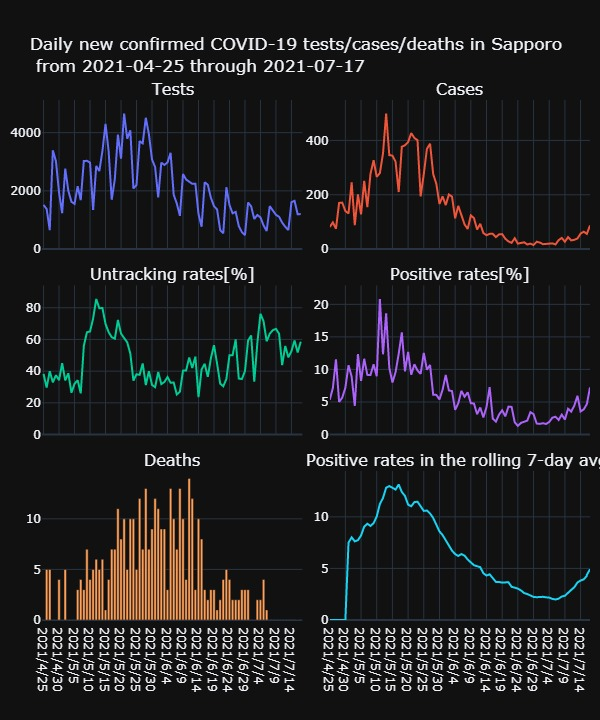
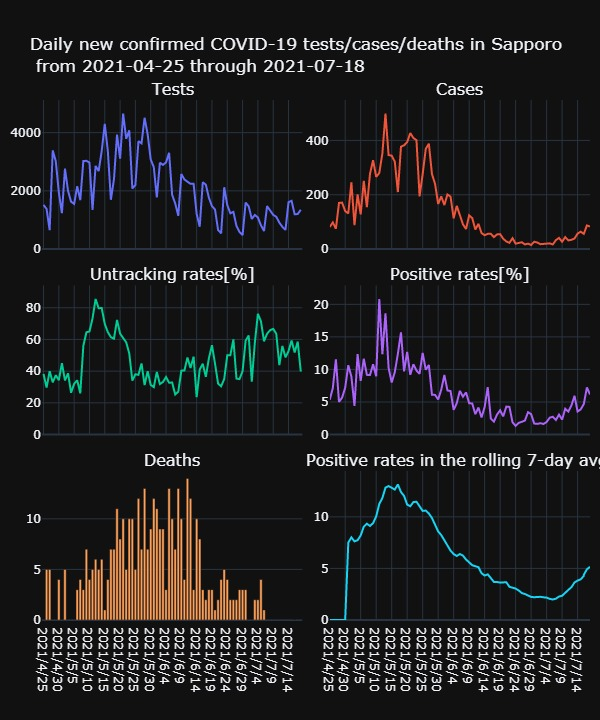
Updated with latest data.

diff --git a/docs/_includes/sapporo.html b/docs/_includes/sapporo.html
@@ -1,1 +1,1 @@
-<div>                            <div id="3568137d-dcb7-4876-867c-903435cc2f19" class="plotly-graph-div" style="height:700px; width:600px;"></div>            <script type="text/javascript">                                    window.PLOTLYENV=window.PLOTLYENV || {};                                    if (document.getElementById("3568137d-dcb7-4876-867c-903435cc2f19")) {                    Plotly.newPlot(                        "3568137d-dcb7-4876-867c-903435cc2f19",                        [{"name": "\u691c\u67fb\u6570", "type": "scatter", "x": ["2021/4/25", "2021/4/26", "2021/4/27", "2021/4/28", "2021/4/29", "2021/4/30", "2021/5/1", "2021/5/2", "2021/5/3", "2021/5/4", "2021/5/5", "2021/5/6", "2021/5/7", "2021/5/8", "2021/5/9", "2021/5/10", "2021/5/11", "2021/5/12", "2021/5/13", "2021/5/14", "2021/5/15", "2021/5/16", "2021/5/17", "2021/5/18", "2021/5/19", "2021/5/20", "2021/5/21", "2021/5/22", "2021/5/23", "2021/5/24", "2021/5/25", "2021/5/26", "2021/5/27", "2021/5/28", "2021/5/29", "2021/5/30", "2021/5/31", "2021/6/1", "2021/6/2", "2021/6/3", "2021/6/4", "2021/6/5", "2021/6/6", "2021/6/7", "2021/6/8", "2021/6/9", "2021/6/10", "2021/6/11", "2021/6/12", "2021/6/13", "2021/6/14", "2021/6/15", "2021/6/16", "2021/6/17", "2021/6/18", "2021/6/19", "2021/6/20", "2021/6/21", "2021/6/22", "2021/6/23", "2021/6/24", "2021/6/25", "2021/6/26", "2021/6/27", "2021/6/28", "2021/6/29", "2021/6/30", "2021/7/1", "2021/7/2", "2021/7/3", "2021/7/4", "2021/7/5", "2021/7/6", "2021/7/7", "2021/7/8", "2021/7/9", "2021/7/10", "2021/7/11", "2021/7/12", "2021/7/13", "2021/7/14", "2021/7/15", "2021/7/16", "2021/7/16", "2021/7/17"], "xaxis": "x", "y": [1517, 1377, 649, 3391, 3018, 1946, 1231, 2764, 2001, 1626, 1553, 2157, 1680, 3028, 3031, 2972, 1345, 2856, 2680, 3372, 4302, 3365, 1694, 2402, 3933, 3105, 4656, 3789, 4080, 2080, 2201, 3708, 3632, 4511, 3943, 3079, 2818, 1773, 2967, 2891, 2978, 3307, 1863, 1567, 1142, 2577, 2391, 2307, 2240, 2244, 1208, 768, 2295, 2212, 1763, 1476, 1360, 653, 542, 2124, 1513, 1229, 1278, 793, 583, 478, 1599, 1467, 1035, 1172, 1086, 813, 621, 1476, 1340, 1175, 1110, 909, 764, 656, 1610, 1658, 1197, 1197, 1202], "yaxis": "y"}, {"name": "\u967d\u6027\u8005", "type": "scatter", "x": ["2021/4/25", "2021/4/26", "2021/4/27", "2021/4/28", "2021/4/29", "2021/4/30", "2021/5/1", "2021/5/2", "2021/5/3", "2021/5/4", "2021/5/5", "2021/5/6", "2021/5/7", "2021/5/8", "2021/5/9", "2021/5/10", "2021/5/11", "2021/5/12", "2021/5/13", "2021/5/14", "2021/5/15", "2021/5/16", "2021/5/17", "2021/5/18", "2021/5/19", "2021/5/20", "2021/5/21", "2021/5/22", "2021/5/23", "2021/5/24", "2021/5/25", "2021/5/26", "2021/5/27", "2021/5/28", "2021/5/29", "2021/5/30", "2021/5/31", "2021/6/1", "2021/6/2", "2021/6/3", "2021/6/4", "2021/6/5", "2021/6/6", "2021/6/7", "2021/6/8", "2021/6/9", "2021/6/10", "2021/6/11", "2021/6/12", "2021/6/13", "2021/6/14", "2021/6/15", "2021/6/16", "2021/6/17", "2021/6/18", "2021/6/19", "2021/6/20", "2021/6/21", "2021/6/22", "2021/6/23", "2021/6/24", "2021/6/25", "2021/6/26", "2021/6/27", "2021/6/28", "2021/6/29", "2021/6/30", "2021/7/1", "2021/7/2", "2021/7/3", "2021/7/4", "2021/7/5", "2021/7/6", "2021/7/7", "2021/7/8", "2021/7/9", "2021/7/10", "2021/7/11", "2021/7/12", "2021/7/13", "2021/7/14", "2021/7/15", "2021/7/16", "2021/7/16", "2021/7/17"], "xaxis": "x2", "y": [81, 98, 75, 170, 171, 140, 131, 246, 88, 201, 128, 251, 154, 277, 327, 266, 280, 352, 499, 346, 344, 322, 210, 377, 382, 394, 427, 409, 401, 194, 276, 369, 388, 276, 240, 166, 194, 162, 201, 193, 113, 159, 125, 91, 74, 124, 114, 72, 93, 59, 51, 56, 56, 44, 54, 55, 38, 28, 23, 40, 20, 22, 25, 17, 20, 15, 27, 24, 18, 19, 21, 21, 17, 33, 41, 27, 44, 32, 34, 39, 57, 64, 56, 56, 87], "yaxis": "y2"}, {"name": "\u7d4c\u8def\u4e0d\u660e\u7387[%]", "type": "scatter", "x": ["2021/4/25", "2021/4/26", "2021/4/27", "2021/4/28", "2021/4/29", "2021/4/30", "2021/5/1", "2021/5/2", "2021/5/3", "2021/5/4", "2021/5/5", "2021/5/6", "2021/5/7", "2021/5/8", "2021/5/9", "2021/5/10", "2021/5/11", "2021/5/12", "2021/5/13", "2021/5/14", "2021/5/15", "2021/5/16", "2021/5/17", "2021/5/18", "2021/5/19", "2021/5/20", "2021/5/21", "2021/5/22", "2021/5/23", "2021/5/24", "2021/5/25", "2021/5/26", "2021/5/27", "2021/5/28", "2021/5/29", "2021/5/30", "2021/5/31", "2021/6/1", "2021/6/2", "2021/6/3", "2021/6/4", "2021/6/5", "2021/6/6", "2021/6/7", "2021/6/8", "2021/6/9", "2021/6/10", "2021/6/11", "2021/6/12", "2021/6/13", "2021/6/14", "2021/6/15", "2021/6/16", "2021/6/17", "2021/6/18", "2021/6/19", "2021/6/20", "2021/6/21", "2021/6/22", "2021/6/23", "2021/6/24", "2021/6/25", "2021/6/26", "2021/6/27", "2021/6/28", "2021/6/29", "2021/6/30", "2021/7/1", "2021/7/2", "2021/7/3", "2021/7/4", "2021/7/5", "2021/7/6", "2021/7/7", "2021/7/8", "2021/7/9", "2021/7/10", "2021/7/11", "2021/7/12", "2021/7/13", "2021/7/14", "2021/7/15", "2021/7/16", "2021/7/16", "2021/7/17"], "xaxis": "x3", "y": [38.2716049382716, 29.591836734693878, 40.0, 32.94117647058823, 37.42690058479532, 34.285714285714285, 45.038167938931295, 34.146341463414636, 38.63636363636363, 26.368159203980102, 32.03125, 34.26294820717131, 25.97402597402597, 55.95667870036101, 64.52599388379205, 65.0375939849624, 73.21428571428571, 85.51136363636364, 79.75951903807615, 79.76878612716763, 69.76744186046511, 64.59627329192547, 61.42857142857143, 60.47745358090185, 72.25130890052355, 63.70558375634518, 60.88992974238876, 58.19070904645477, 51.12219451371571, 34.02061855670103, 38.04347826086957, 37.669376693766935, 44.84536082474227, 31.15942028985507, 40.0, 31.32530120481928, 29.896907216494846, 39.50617283950617, 31.8407960199005, 33.160621761658035, 36.283185840707965, 32.70440251572327, 32.800000000000004, 25.274725274725274, 27.027027027027028, 40.32258064516129, 40.35087719298245, 48.61111111111111, 41.935483870967744, 49.152542372881356, 23.52941176470588, 41.07142857142857, 44.642857142857146, 36.36363636363637, 48.148148148148145, 56.36363636363636, 44.73684210526316, 32.142857142857146, 30.434782608695656, 35.0, 50.0, 50.0, 60.0, 35.294117647058826, 35.0, 40.0, 59.25925925925925, 62.5, 33.33333333333333, 57.89473684210527, 76.19047619047619, 71.42857142857143, 58.82352941176471, 63.63636363636363, 65.85365853658537, 66.66666666666666, 63.63636363636363, 43.75, 55.88235294117647, 48.717948717948715, 52.63157894736842, 59.375, 51.78571428571429, 51.78571428571429, 58.620689655172406], "yaxis": "y3"}, {"name": "\u967d\u6027\u7387[%]", "type": "scatter", "x": ["2021/4/25", "2021/4/26", "2021/4/27", "2021/4/28", "2021/4/29", "2021/4/30", "2021/5/1", "2021/5/2", "2021/5/3", "2021/5/4", "2021/5/5", "2021/5/6", "2021/5/7", "2021/5/8", "2021/5/9", "2021/5/10", "2021/5/11", "2021/5/12", "2021/5/13", "2021/5/14", "2021/5/15", "2021/5/16", "2021/5/17", "2021/5/18", "2021/5/19", "2021/5/20", "2021/5/21", "2021/5/22", "2021/5/23", "2021/5/24", "2021/5/25", "2021/5/26", "2021/5/27", "2021/5/28", "2021/5/29", "2021/5/30", "2021/5/31", "2021/6/1", "2021/6/2", "2021/6/3", "2021/6/4", "2021/6/5", "2021/6/6", "2021/6/7", "2021/6/8", "2021/6/9", "2021/6/10", "2021/6/11", "2021/6/12", "2021/6/13", "2021/6/14", "2021/6/15", "2021/6/16", "2021/6/17", "2021/6/18", "2021/6/19", "2021/6/20", "2021/6/21", "2021/6/22", "2021/6/23", "2021/6/24", "2021/6/25", "2021/6/26", "2021/6/27", "2021/6/28", "2021/6/29", "2021/6/30", "2021/7/1", "2021/7/2", "2021/7/3", "2021/7/4", "2021/7/5", "2021/7/6", "2021/7/7", "2021/7/8", "2021/7/9", "2021/7/10", "2021/7/11", "2021/7/12", "2021/7/13", "2021/7/14", "2021/7/15", "2021/7/16", "2021/7/16", "2021/7/17"], "xaxis": "x4", "y": [5.339485827290705, 7.116920842411038, 11.556240369799692, 5.013270421704512, 5.666003976143141, 7.194244604316546, 10.641754670999187, 8.90014471780029, 4.397801099450275, 12.361623616236162, 8.24211204121056, 11.636532220676866, 9.166666666666666, 9.147952443857331, 10.788518640712635, 8.950201884253028, 20.817843866171003, 12.324929971988796, 18.619402985074625, 10.26097271648873, 7.996280799628081, 9.569093610698365, 12.396694214876034, 15.695253955037469, 9.712687515891178, 12.689210950080515, 9.170962199312713, 10.794404856162576, 9.82843137254902, 9.326923076923077, 12.539754656974104, 9.951456310679612, 10.682819383259911, 6.1183772999334956, 6.086735987826528, 5.391360831438779, 6.88431511710433, 9.137055837563452, 6.774519716885743, 6.675890695261155, 3.794492948287441, 4.807983066223163, 6.709608158883522, 5.8072750478621575, 6.47985989492119, 4.811796662786186, 4.767879548306149, 3.1209362808842656, 4.151785714285714, 2.6292335115864525, 4.2218543046357615, 7.291666666666667, 2.440087145969499, 1.9891500904159132, 3.0629608621667614, 3.7262872628726287, 2.794117647058824, 4.287901990811639, 4.243542435424354, 1.8832391713747645, 1.3218770654329148, 1.790073230268511, 1.9561815336463224, 2.1437578814627996, 3.430531732418525, 3.1380753138075312, 1.6885553470919326, 1.6359918200409, 1.7391304347826086, 1.621160409556314, 1.9337016574585635, 2.5830258302583027, 2.737520128824477, 2.2357723577235773, 3.0597014925373136, 2.297872340425532, 3.963963963963964, 3.52035203520352, 4.450261780104712, 5.945121951219512, 3.540372670807453, 3.8600723763570564, 4.678362573099415, 4.678362573099415, 7.23793677204659], "yaxis": "y4"}, {"name": "\u6b7b\u8005\u6570", "type": "bar", "x": ["2021/4/25", "2021/4/26", "2021/4/27", "2021/4/28", "2021/4/29", "2021/4/30", "2021/5/1", "2021/5/2", "2021/5/3", "2021/5/4", "2021/5/5", "2021/5/6", "2021/5/7", "2021/5/8", "2021/5/9", "2021/5/10", "2021/5/11", "2021/5/12", "2021/5/13", "2021/5/14", "2021/5/15", "2021/5/16", "2021/5/17", "2021/5/18", "2021/5/19", "2021/5/20", "2021/5/21", "2021/5/22", "2021/5/23", "2021/5/24", "2021/5/25", "2021/5/26", "2021/5/27", "2021/5/28", "2021/5/29", "2021/5/30", "2021/5/31", "2021/6/1", "2021/6/2", "2021/6/3", "2021/6/4", "2021/6/5", "2021/6/6", "2021/6/7", "2021/6/8", "2021/6/9", "2021/6/10", "2021/6/11", "2021/6/12", "2021/6/13", "2021/6/14", "2021/6/15", "2021/6/16", "2021/6/17", "2021/6/18", "2021/6/19", "2021/6/20", "2021/6/21", "2021/6/22", "2021/6/23", "2021/6/24", "2021/6/25", "2021/6/26", "2021/6/27", "2021/6/28", "2021/6/29", "2021/6/30", "2021/7/1", "2021/7/2", "2021/7/3", "2021/7/4", "2021/7/5", "2021/7/6", "2021/7/7", "2021/7/8", "2021/7/9", "2021/7/10", "2021/7/11", "2021/7/12", "2021/7/13", "2021/7/14", "2021/7/15", "2021/7/16", "2021/7/16", "2021/7/17"], "xaxis": "x5", "y": [0, 5, 5, 0, 0, 4, 0, 5, 0, 0, 0, 3, 4, 3, 7, 4, 5, 6, 5, 6, 1, 4, 7, 7, 11, 8, 10, 5, 10, 10, 5, 12, 7, 13, 7, 9, 12, 11, 9, 9, 3, 13, 10, 7, 13, 10, 4, 14, 12, 3, 10, 8, 3, 2, 3, 3, 1, 2, 4, 5, 4, 2, 2, 2, 3, 3, 3, 0, 0, 2, 2, 4, 1, 0, 0, 0, 0, 0, 0, 0, 0, 0, 0, 0, 0], "yaxis": "y5"}, {"name": "\u967d\u6027\u7387\u79fb\u52d5\u5e73\u5747[%]", "type": "scatter", "x": ["2021/4/25", "2021/4/26", "2021/4/27", "2021/4/28", "2021/4/29", "2021/4/30", "2021/5/1", "2021/5/2", "2021/5/3", "2021/5/4", "2021/5/5", "2021/5/6", "2021/5/7", "2021/5/8", "2021/5/9", "2021/5/10", "2021/5/11", "2021/5/12", "2021/5/13", "2021/5/14", "2021/5/15", "2021/5/16", "2021/5/17", "2021/5/18", "2021/5/19", "2021/5/20", "2021/5/21", "2021/5/22", "2021/5/23", "2021/5/24", "2021/5/25", "2021/5/26", "2021/5/27", "2021/5/28", "2021/5/29", "2021/5/30", "2021/5/31", "2021/6/1", "2021/6/2", "2021/6/3", "2021/6/4", "2021/6/5", "2021/6/6", "2021/6/7", "2021/6/8", "2021/6/9", "2021/6/10", "2021/6/11", "2021/6/12", "2021/6/13", "2021/6/14", "2021/6/15", "2021/6/16", "2021/6/17", "2021/6/18", "2021/6/19", "2021/6/20", "2021/6/21", "2021/6/22", "2021/6/23", "2021/6/24", "2021/6/25", "2021/6/26", "2021/6/27", "2021/6/28", "2021/6/29", "2021/6/30", "2021/7/1", "2021/7/2", "2021/7/3", "2021/7/4", "2021/7/5", "2021/7/6", "2021/7/7", "2021/7/8", "2021/7/9", "2021/7/10", "2021/7/11", "2021/7/12", "2021/7/13", "2021/7/14", "2021/7/15", "2021/7/16", "2021/7/16", "2021/7/17"], "xaxis": "x6", "y": [0.0, 0.0, 0.0, 0.0, 0.0, 0.0, 7.503988673237832, 8.012654229024914, 7.624208551459091, 7.739263300950015, 8.20052638945088, 9.053458995812841, 9.335233576148571, 9.12183325798545, 9.391600961258641, 10.041943930516178, 11.249975394792585, 11.833235099189475, 12.830788065532012, 12.987117501220878, 12.8225929806167, 12.648389404900376, 13.140745452132233, 12.408946893398872, 12.035769399670638, 11.188599108957195, 11.032883320789193, 11.432615328865548, 11.469663580558498, 11.03112484656522, 10.580339232556168, 10.614449060383087, 10.32782169369443, 9.891738136640255, 9.219214012592248, 8.585346792433644, 8.236402798173822, 7.750302966829444, 7.296454882001749, 6.724036498001926, 6.392053019195346, 6.209374030394867, 6.397695077172687, 6.24383221013809, 5.864232789760624, 5.583843782032115, 5.311270761038544, 5.215048379980947, 5.12130590113274, 4.53839523723316, 4.311906559629389, 4.4278789555930285, 4.0890633103335015, 3.6921019592063242, 3.683819756532395, 3.6230342634733828, 3.646589139969436, 3.6560245237088473, 3.220578204959945, 3.141028494303555, 3.045703776448841, 2.863862686177662, 2.6109904391453327, 2.5180819012030433, 2.395600435718313, 2.237676561201624, 2.2098645863040765, 2.254738122676646, 2.247460580464374, 2.1996004198800874, 2.169592387879482, 2.0485201161423072, 1.991297946859014, 2.0694718055206773, 2.2728589015915936, 2.352679173826297, 2.687365395884533, 2.9140297355623836, 3.1807777283975844, 3.639006560168304, 3.825378033466001, 3.9397167311545354, 4.279786764393661, 4.381843708555869, 4.912927242390593], "yaxis": "y6"}],                        {"annotations": [{"font": {"size": 16}, "showarrow": false, "text": "\u691c\u67fb\u6570", "x": 0.2375, "xanchor": "center", "xref": "paper", "y": 1.0, "yanchor": "bottom", "yref": "paper"}, {"font": {"size": 16}, "showarrow": false, "text": "\u967d\u6027\u8005", "x": 0.7625, "xanchor": "center", "xref": "paper", "y": 1.0, "yanchor": "bottom", "yref": "paper"}, {"font": {"size": 16}, "showarrow": false, "text": "\u7d4c\u8def\u4e0d\u660e\u7387[%]", "x": 0.2375, "xanchor": "center", "xref": "paper", "y": 0.6433333333333333, "yanchor": "bottom", "yref": "paper"}, {"font": {"size": 16}, "showarrow": false, "text": "\u967d\u6027\u7387[%]", "x": 0.7625, "xanchor": "center", "xref": "paper", "y": 0.6433333333333333, "yanchor": "bottom", "yref": "paper"}, {"font": {"size": 16}, "showarrow": false, "text": "\u6b7b\u8005\u6570", "x": 0.2375, "xanchor": "center", "xref": "paper", "y": 0.2866666666666667, "yanchor": "bottom", "yref": "paper"}, {"font": {"size": 16}, "showarrow": false, "text": "\u967d\u6027\u7387\u79fb\u52d5\u5e73\u5747[%]", "x": 0.7625, "xanchor": "center", "xref": "paper", "y": 0.2866666666666667, "yanchor": "bottom", "yref": "paper"}], "height": 700, "margin": {"b": 100, "l": 10, "r": 10, "t": 80}, "showlegend": false, "template": {"data": {"bar": [{"error_x": {"color": "#f2f5fa"}, "error_y": {"color": "#f2f5fa"}, "marker": {"line": {"color": "rgb(17,17,17)", "width": 0.5}}, "type": "bar"}], "barpolar": [{"marker": {"line": {"color": "rgb(17,17,17)", "width": 0.5}}, "type": "barpolar"}], "carpet": [{"aaxis": {"endlinecolor": "#A2B1C6", "gridcolor": "#506784", "linecolor": "#506784", "minorgridcolor": "#506784", "startlinecolor": "#A2B1C6"}, "baxis": {"endlinecolor": "#A2B1C6", "gridcolor": "#506784", "linecolor": "#506784", "minorgridcolor": "#506784", "startlinecolor": "#A2B1C6"}, "type": "carpet"}], "choropleth": [{"colorbar": {"outlinewidth": 0, "ticks": ""}, "type": "choropleth"}], "contour": [{"colorbar": {"outlinewidth": 0, "ticks": ""}, "colorscale": [[0.0, "#0d0887"], [0.1111111111111111, "#46039f"], [0.2222222222222222, "#7201a8"], [0.3333333333333333, "#9c179e"], [0.4444444444444444, "#bd3786"], [0.5555555555555556, "#d8576b"], [0.6666666666666666, "#ed7953"], [0.7777777777777778, "#fb9f3a"], [0.8888888888888888, "#fdca26"], [1.0, "#f0f921"]], "type": "contour"}], "contourcarpet": [{"colorbar": {"outlinewidth": 0, "ticks": ""}, "type": "contourcarpet"}], "heatmap": [{"colorbar": {"outlinewidth": 0, "ticks": ""}, "colorscale": [[0.0, "#0d0887"], [0.1111111111111111, "#46039f"], [0.2222222222222222, "#7201a8"], [0.3333333333333333, "#9c179e"], [0.4444444444444444, "#bd3786"], [0.5555555555555556, "#d8576b"], [0.6666666666666666, "#ed7953"], [0.7777777777777778, "#fb9f3a"], [0.8888888888888888, "#fdca26"], [1.0, "#f0f921"]], "type": "heatmap"}], "heatmapgl": [{"colorbar": {"outlinewidth": 0, "ticks": ""}, "colorscale": [[0.0, "#0d0887"], [0.1111111111111111, "#46039f"], [0.2222222222222222, "#7201a8"], [0.3333333333333333, "#9c179e"], [0.4444444444444444, "#bd3786"], [0.5555555555555556, "#d8576b"], [0.6666666666666666, "#ed7953"], [0.7777777777777778, "#fb9f3a"], [0.8888888888888888, "#fdca26"], [1.0, "#f0f921"]], "type": "heatmapgl"}], "histogram": [{"marker": {"colorbar": {"outlinewidth": 0, "ticks": ""}}, "type": "histogram"}], "histogram2d": [{"colorbar": {"outlinewidth": 0, "ticks": ""}, "colorscale": [[0.0, "#0d0887"], [0.1111111111111111, "#46039f"], [0.2222222222222222, "#7201a8"], [0.3333333333333333, "#9c179e"], [0.4444444444444444, "#bd3786"], [0.5555555555555556, "#d8576b"], [0.6666666666666666, "#ed7953"], [0.7777777777777778, "#fb9f3a"], [0.8888888888888888, "#fdca26"], [1.0, "#f0f921"]], "type": "histogram2d"}], "histogram2dcontour": [{"colorbar": {"outlinewidth": 0, "ticks": ""}, "colorscale": [[0.0, "#0d0887"], [0.1111111111111111, "#46039f"], [0.2222222222222222, "#7201a8"], [0.3333333333333333, "#9c179e"], [0.4444444444444444, "#bd3786"], [0.5555555555555556, "#d8576b"], [0.6666666666666666, "#ed7953"], [0.7777777777777778, "#fb9f3a"], [0.8888888888888888, "#fdca26"], [1.0, "#f0f921"]], "type": "histogram2dcontour"}], "mesh3d": [{"colorbar": {"outlinewidth": 0, "ticks": ""}, "type": "mesh3d"}], "parcoords": [{"line": {"colorbar": {"outlinewidth": 0, "ticks": ""}}, "type": "parcoords"}], "pie": [{"automargin": true, "type": "pie"}], "scatter": [{"marker": {"line": {"color": "#283442"}}, "type": "scatter"}], "scatter3d": [{"line": {"colorbar": {"outlinewidth": 0, "ticks": ""}}, "marker": {"colorbar": {"outlinewidth": 0, "ticks": ""}}, "type": "scatter3d"}], "scattercarpet": [{"marker": {"colorbar": {"outlinewidth": 0, "ticks": ""}}, "type": "scattercarpet"}], "scattergeo": [{"marker": {"colorbar": {"outlinewidth": 0, "ticks": ""}}, "type": "scattergeo"}], "scattergl": [{"marker": {"line": {"color": "#283442"}}, "type": "scattergl"}], "scattermapbox": [{"marker": {"colorbar": {"outlinewidth": 0, "ticks": ""}}, "type": "scattermapbox"}], "scatterpolar": [{"marker": {"colorbar": {"outlinewidth": 0, "ticks": ""}}, "type": "scatterpolar"}], "scatterpolargl": [{"marker": {"colorbar": {"outlinewidth": 0, "ticks": ""}}, "type": "scatterpolargl"}], "scatterternary": [{"marker": {"colorbar": {"outlinewidth": 0, "ticks": ""}}, "type": "scatterternary"}], "surface": [{"colorbar": {"outlinewidth": 0, "ticks": ""}, "colorscale": [[0.0, "#0d0887"], [0.1111111111111111, "#46039f"], [0.2222222222222222, "#7201a8"], [0.3333333333333333, "#9c179e"], [0.4444444444444444, "#bd3786"], [0.5555555555555556, "#d8576b"], [0.6666666666666666, "#ed7953"], [0.7777777777777778, "#fb9f3a"], [0.8888888888888888, "#fdca26"], [1.0, "#f0f921"]], "type": "surface"}], "table": [{"cells": {"fill": {"color": "#506784"}, "line": {"color": "rgb(17,17,17)"}}, "header": {"fill": {"color": "#2a3f5f"}, "line": {"color": "rgb(17,17,17)"}}, "type": "table"}]}, "layout": {"annotationdefaults": {"arrowcolor": "#f2f5fa", "arrowhead": 0, "arrowwidth": 1}, "autotypenumbers": "strict", "coloraxis": {"colorbar": {"outlinewidth": 0, "ticks": ""}}, "colorscale": {"diverging": [[0, "#8e0152"], [0.1, "#c51b7d"], [0.2, "#de77ae"], [0.3, "#f1b6da"], [0.4, "#fde0ef"], [0.5, "#f7f7f7"], [0.6, "#e6f5d0"], [0.7, "#b8e186"], [0.8, "#7fbc41"], [0.9, "#4d9221"], [1, "#276419"]], "sequential": [[0.0, "#0d0887"], [0.1111111111111111, "#46039f"], [0.2222222222222222, "#7201a8"], [0.3333333333333333, "#9c179e"], [0.4444444444444444, "#bd3786"], [0.5555555555555556, "#d8576b"], [0.6666666666666666, "#ed7953"], [0.7777777777777778, "#fb9f3a"], [0.8888888888888888, "#fdca26"], [1.0, "#f0f921"]], "sequentialminus": [[0.0, "#0d0887"], [0.1111111111111111, "#46039f"], [0.2222222222222222, "#7201a8"], [0.3333333333333333, "#9c179e"], [0.4444444444444444, "#bd3786"], [0.5555555555555556, "#d8576b"], [0.6666666666666666, "#ed7953"], [0.7777777777777778, "#fb9f3a"], [0.8888888888888888, "#fdca26"], [1.0, "#f0f921"]]}, "colorway": ["#636efa", "#EF553B", "#00cc96", "#ab63fa", "#FFA15A", "#19d3f3", "#FF6692", "#B6E880", "#FF97FF", "#FECB52"], "font": {"color": "#f2f5fa"}, "geo": {"bgcolor": "rgb(17,17,17)", "lakecolor": "rgb(17,17,17)", "landcolor": "rgb(17,17,17)", "showlakes": true, "showland": true, "subunitcolor": "#506784"}, "hoverlabel": {"align": "left"}, "hovermode": "closest", "mapbox": {"style": "dark"}, "paper_bgcolor": "rgb(17,17,17)", "plot_bgcolor": "rgb(17,17,17)", "polar": {"angularaxis": {"gridcolor": "#506784", "linecolor": "#506784", "ticks": ""}, "bgcolor": "rgb(17,17,17)", "radialaxis": {"gridcolor": "#506784", "linecolor": "#506784", "ticks": ""}}, "scene": {"xaxis": {"backgroundcolor": "rgb(17,17,17)", "gridcolor": "#506784", "gridwidth": 2, "linecolor": "#506784", "showbackground": true, "ticks": "", "zerolinecolor": "#C8D4E3"}, "yaxis": {"backgroundcolor": "rgb(17,17,17)", "gridcolor": "#506784", "gridwidth": 2, "linecolor": "#506784", "showbackground": true, "ticks": "", "zerolinecolor": "#C8D4E3"}, "zaxis": {"backgroundcolor": "rgb(17,17,17)", "gridcolor": "#506784", "gridwidth": 2, "linecolor": "#506784", "showbackground": true, "ticks": "", "zerolinecolor": "#C8D4E3"}}, "shapedefaults": {"line": {"color": "#f2f5fa"}}, "sliderdefaults": {"bgcolor": "#C8D4E3", "bordercolor": "rgb(17,17,17)", "borderwidth": 1, "tickwidth": 0}, "ternary": {"aaxis": {"gridcolor": "#506784", "linecolor": "#506784", "ticks": ""}, "baxis": {"gridcolor": "#506784", "linecolor": "#506784", "ticks": ""}, "bgcolor": "rgb(17,17,17)", "caxis": {"gridcolor": "#506784", "linecolor": "#506784", "ticks": ""}}, "title": {"x": 0.05}, "updatemenudefaults": {"bgcolor": "#506784", "borderwidth": 0}, "xaxis": {"automargin": true, "gridcolor": "#283442", "linecolor": "#506784", "ticks": "", "title": {"standoff": 15}, "zerolinecolor": "#283442", "zerolinewidth": 2}, "yaxis": {"automargin": true, "gridcolor": "#283442", "linecolor": "#506784", "ticks": "", "title": {"standoff": 15}, "zerolinecolor": "#283442", "zerolinewidth": 2}}}, "title": {"text": "\u672d\u5e4c\u611f\u67d3\u72b6\u6cc1 2021-04-25 \uff5e 2021-07-17 23:13"}, "width": 600, "xaxis": {"anchor": "y", "domain": [0.0, 0.475], "matches": "x5", "showticklabels": false}, "xaxis2": {"anchor": "y2", "domain": [0.525, 1.0], "matches": "x6", "showticklabels": false}, "xaxis3": {"anchor": "y3", "domain": [0.0, 0.475], "matches": "x5", "showticklabels": false}, "xaxis4": {"anchor": "y4", "domain": [0.525, 1.0], "matches": "x6", "showticklabels": false}, "xaxis5": {"anchor": "y5", "domain": [0.0, 0.475]}, "xaxis6": {"anchor": "y6", "domain": [0.525, 1.0]}, "yaxis": {"anchor": "x", "domain": [0.7133333333333334, 1.0], "range": [0, 5121.6]}, "yaxis2": {"anchor": "x2", "domain": [0.7133333333333334, 1.0], "range": [0, 548.9000000000001]}, "yaxis3": {"anchor": "x3", "domain": [0.3566666666666667, 0.6433333333333333], "range": [0, 94.06250000000001]}, "yaxis4": {"anchor": "x4", "domain": [0.3566666666666667, 0.6433333333333333], "range": [0, 22.899628252788105]}, "yaxis5": {"anchor": "x5", "domain": [0.0, 0.2866666666666667]}, "yaxis6": {"anchor": "x6", "domain": [0.0, 0.2866666666666667], "range": [0, 14.454819997345457]}},                        {"responsive": true}                    )                };                            </script>        </div>
+<div>                            <div id="8878cf2e-042f-41bd-a453-0bb9c112a18b" class="plotly-graph-div" style="height:700px; width:600px;"></div>            <script type="text/javascript">                                    window.PLOTLYENV=window.PLOTLYENV || {};                                    if (document.getElementById("8878cf2e-042f-41bd-a453-0bb9c112a18b")) {                    Plotly.newPlot(                        "8878cf2e-042f-41bd-a453-0bb9c112a18b",                        [{"name": "\u691c\u67fb\u6570", "type": "scatter", "x": ["2021/4/25", "2021/4/26", "2021/4/27", "2021/4/28", "2021/4/29", "2021/4/30", "2021/5/1", "2021/5/2", "2021/5/3", "2021/5/4", "2021/5/5", "2021/5/6", "2021/5/7", "2021/5/8", "2021/5/9", "2021/5/10", "2021/5/11", "2021/5/12", "2021/5/13", "2021/5/14", "2021/5/15", "2021/5/16", "2021/5/17", "2021/5/18", "2021/5/19", "2021/5/20", "2021/5/21", "2021/5/22", "2021/5/23", "2021/5/24", "2021/5/25", "2021/5/26", "2021/5/27", "2021/5/28", "2021/5/29", "2021/5/30", "2021/5/31", "2021/6/1", "2021/6/2", "2021/6/3", "2021/6/4", "2021/6/5", "2021/6/6", "2021/6/7", "2021/6/8", "2021/6/9", "2021/6/10", "2021/6/11", "2021/6/12", "2021/6/13", "2021/6/14", "2021/6/15", "2021/6/16", "2021/6/17", "2021/6/18", "2021/6/19", "2021/6/20", "2021/6/21", "2021/6/22", "2021/6/23", "2021/6/24", "2021/6/25", "2021/6/26", "2021/6/27", "2021/6/28", "2021/6/29", "2021/6/30", "2021/7/1", "2021/7/2", "2021/7/3", "2021/7/4", "2021/7/5", "2021/7/6", "2021/7/7", "2021/7/8", "2021/7/9", "2021/7/10", "2021/7/11", "2021/7/12", "2021/7/13", "2021/7/14", "2021/7/15", "2021/7/16", "2021/7/16", "2021/7/17", "2021/7/18"], "xaxis": "x", "y": [1517, 1377, 649, 3391, 3018, 1946, 1231, 2764, 2001, 1626, 1553, 2157, 1680, 3028, 3031, 2972, 1345, 2856, 2680, 3372, 4302, 3365, 1694, 2402, 3933, 3105, 4656, 3789, 4080, 2080, 2201, 3708, 3632, 4511, 3943, 3079, 2818, 1773, 2967, 2891, 2978, 3307, 1863, 1567, 1142, 2577, 2391, 2307, 2240, 2244, 1208, 768, 2295, 2212, 1763, 1476, 1360, 653, 542, 2124, 1513, 1229, 1278, 793, 583, 478, 1599, 1467, 1035, 1172, 1086, 813, 621, 1476, 1340, 1175, 1110, 909, 764, 656, 1610, 1658, 1197, 1197, 1202, 1350], "yaxis": "y"}, {"name": "\u967d\u6027\u8005", "type": "scatter", "x": ["2021/4/25", "2021/4/26", "2021/4/27", "2021/4/28", "2021/4/29", "2021/4/30", "2021/5/1", "2021/5/2", "2021/5/3", "2021/5/4", "2021/5/5", "2021/5/6", "2021/5/7", "2021/5/8", "2021/5/9", "2021/5/10", "2021/5/11", "2021/5/12", "2021/5/13", "2021/5/14", "2021/5/15", "2021/5/16", "2021/5/17", "2021/5/18", "2021/5/19", "2021/5/20", "2021/5/21", "2021/5/22", "2021/5/23", "2021/5/24", "2021/5/25", "2021/5/26", "2021/5/27", "2021/5/28", "2021/5/29", "2021/5/30", "2021/5/31", "2021/6/1", "2021/6/2", "2021/6/3", "2021/6/4", "2021/6/5", "2021/6/6", "2021/6/7", "2021/6/8", "2021/6/9", "2021/6/10", "2021/6/11", "2021/6/12", "2021/6/13", "2021/6/14", "2021/6/15", "2021/6/16", "2021/6/17", "2021/6/18", "2021/6/19", "2021/6/20", "2021/6/21", "2021/6/22", "2021/6/23", "2021/6/24", "2021/6/25", "2021/6/26", "2021/6/27", "2021/6/28", "2021/6/29", "2021/6/30", "2021/7/1", "2021/7/2", "2021/7/3", "2021/7/4", "2021/7/5", "2021/7/6", "2021/7/7", "2021/7/8", "2021/7/9", "2021/7/10", "2021/7/11", "2021/7/12", "2021/7/13", "2021/7/14", "2021/7/15", "2021/7/16", "2021/7/16", "2021/7/17", "2021/7/18"], "xaxis": "x2", "y": [81, 98, 75, 170, 171, 140, 131, 246, 88, 201, 128, 251, 154, 277, 327, 266, 280, 352, 499, 346, 344, 322, 210, 377, 382, 394, 427, 409, 401, 194, 276, 369, 388, 276, 240, 166, 194, 162, 201, 193, 113, 159, 125, 91, 74, 124, 114, 72, 93, 59, 51, 56, 56, 44, 54, 55, 38, 28, 23, 40, 20, 22, 25, 17, 20, 15, 27, 24, 18, 19, 21, 21, 17, 33, 41, 27, 44, 32, 34, 39, 57, 64, 56, 56, 87, 83], "yaxis": "y2"}, {"name": "\u7d4c\u8def\u4e0d\u660e\u7387[%]", "type": "scatter", "x": ["2021/4/25", "2021/4/26", "2021/4/27", "2021/4/28", "2021/4/29", "2021/4/30", "2021/5/1", "2021/5/2", "2021/5/3", "2021/5/4", "2021/5/5", "2021/5/6", "2021/5/7", "2021/5/8", "2021/5/9", "2021/5/10", "2021/5/11", "2021/5/12", "2021/5/13", "2021/5/14", "2021/5/15", "2021/5/16", "2021/5/17", "2021/5/18", "2021/5/19", "2021/5/20", "2021/5/21", "2021/5/22", "2021/5/23", "2021/5/24", "2021/5/25", "2021/5/26", "2021/5/27", "2021/5/28", "2021/5/29", "2021/5/30", "2021/5/31", "2021/6/1", "2021/6/2", "2021/6/3", "2021/6/4", "2021/6/5", "2021/6/6", "2021/6/7", "2021/6/8", "2021/6/9", "2021/6/10", "2021/6/11", "2021/6/12", "2021/6/13", "2021/6/14", "2021/6/15", "2021/6/16", "2021/6/17", "2021/6/18", "2021/6/19", "2021/6/20", "2021/6/21", "2021/6/22", "2021/6/23", "2021/6/24", "2021/6/25", "2021/6/26", "2021/6/27", "2021/6/28", "2021/6/29", "2021/6/30", "2021/7/1", "2021/7/2", "2021/7/3", "2021/7/4", "2021/7/5", "2021/7/6", "2021/7/7", "2021/7/8", "2021/7/9", "2021/7/10", "2021/7/11", "2021/7/12", "2021/7/13", "2021/7/14", "2021/7/15", "2021/7/16", "2021/7/16", "2021/7/17", "2021/7/18"], "xaxis": "x3", "y": [38.2716049382716, 29.591836734693878, 40.0, 32.94117647058823, 37.42690058479532, 34.285714285714285, 45.038167938931295, 34.146341463414636, 38.63636363636363, 26.368159203980102, 32.03125, 34.26294820717131, 25.97402597402597, 55.95667870036101, 64.52599388379205, 65.0375939849624, 73.21428571428571, 85.51136363636364, 79.75951903807615, 79.76878612716763, 69.76744186046511, 64.59627329192547, 61.42857142857143, 60.47745358090185, 72.25130890052355, 63.70558375634518, 60.88992974238876, 58.19070904645477, 51.12219451371571, 34.02061855670103, 38.04347826086957, 37.669376693766935, 44.84536082474227, 31.15942028985507, 40.0, 31.32530120481928, 29.896907216494846, 39.50617283950617, 31.8407960199005, 33.160621761658035, 36.283185840707965, 32.70440251572327, 32.800000000000004, 25.274725274725274, 27.027027027027028, 40.32258064516129, 40.35087719298245, 48.61111111111111, 41.935483870967744, 49.152542372881356, 23.52941176470588, 41.07142857142857, 44.642857142857146, 36.36363636363637, 48.148148148148145, 56.36363636363636, 44.73684210526316, 32.142857142857146, 30.434782608695656, 35.0, 50.0, 50.0, 60.0, 35.294117647058826, 35.0, 40.0, 59.25925925925925, 62.5, 33.33333333333333, 57.89473684210527, 76.19047619047619, 71.42857142857143, 58.82352941176471, 63.63636363636363, 65.85365853658537, 66.66666666666666, 63.63636363636363, 43.75, 55.88235294117647, 48.717948717948715, 52.63157894736842, 59.375, 51.78571428571429, 51.78571428571429, 58.620689655172406, 39.75903614457831], "yaxis": "y3"}, {"name": "\u967d\u6027\u7387[%]", "type": "scatter", "x": ["2021/4/25", "2021/4/26", "2021/4/27", "2021/4/28", "2021/4/29", "2021/4/30", "2021/5/1", "2021/5/2", "2021/5/3", "2021/5/4", "2021/5/5", "2021/5/6", "2021/5/7", "2021/5/8", "2021/5/9", "2021/5/10", "2021/5/11", "2021/5/12", "2021/5/13", "2021/5/14", "2021/5/15", "2021/5/16", "2021/5/17", "2021/5/18", "2021/5/19", "2021/5/20", "2021/5/21", "2021/5/22", "2021/5/23", "2021/5/24", "2021/5/25", "2021/5/26", "2021/5/27", "2021/5/28", "2021/5/29", "2021/5/30", "2021/5/31", "2021/6/1", "2021/6/2", "2021/6/3", "2021/6/4", "2021/6/5", "2021/6/6", "2021/6/7", "2021/6/8", "2021/6/9", "2021/6/10", "2021/6/11", "2021/6/12", "2021/6/13", "2021/6/14", "2021/6/15", "2021/6/16", "2021/6/17", "2021/6/18", "2021/6/19", "2021/6/20", "2021/6/21", "2021/6/22", "2021/6/23", "2021/6/24", "2021/6/25", "2021/6/26", "2021/6/27", "2021/6/28", "2021/6/29", "2021/6/30", "2021/7/1", "2021/7/2", "2021/7/3", "2021/7/4", "2021/7/5", "2021/7/6", "2021/7/7", "2021/7/8", "2021/7/9", "2021/7/10", "2021/7/11", "2021/7/12", "2021/7/13", "2021/7/14", "2021/7/15", "2021/7/16", "2021/7/16", "2021/7/17", "2021/7/18"], "xaxis": "x4", "y": [5.339485827290705, 7.116920842411038, 11.556240369799692, 5.013270421704512, 5.666003976143141, 7.194244604316546, 10.641754670999187, 8.90014471780029, 4.397801099450275, 12.361623616236162, 8.24211204121056, 11.636532220676866, 9.166666666666666, 9.147952443857331, 10.788518640712635, 8.950201884253028, 20.817843866171003, 12.324929971988796, 18.619402985074625, 10.26097271648873, 7.996280799628081, 9.569093610698365, 12.396694214876034, 15.695253955037469, 9.712687515891178, 12.689210950080515, 9.170962199312713, 10.794404856162576, 9.82843137254902, 9.326923076923077, 12.539754656974104, 9.951456310679612, 10.682819383259911, 6.1183772999334956, 6.086735987826528, 5.391360831438779, 6.88431511710433, 9.137055837563452, 6.774519716885743, 6.675890695261155, 3.794492948287441, 4.807983066223163, 6.709608158883522, 5.8072750478621575, 6.47985989492119, 4.811796662786186, 4.767879548306149, 3.1209362808842656, 4.151785714285714, 2.6292335115864525, 4.2218543046357615, 7.291666666666667, 2.440087145969499, 1.9891500904159132, 3.0629608621667614, 3.7262872628726287, 2.794117647058824, 4.287901990811639, 4.243542435424354, 1.8832391713747645, 1.3218770654329148, 1.790073230268511, 1.9561815336463224, 2.1437578814627996, 3.430531732418525, 3.1380753138075312, 1.6885553470919326, 1.6359918200409, 1.7391304347826086, 1.621160409556314, 1.9337016574585635, 2.5830258302583027, 2.737520128824477, 2.2357723577235773, 3.0597014925373136, 2.297872340425532, 3.963963963963964, 3.52035203520352, 4.450261780104712, 5.945121951219512, 3.540372670807453, 3.8600723763570564, 4.678362573099415, 4.678362573099415, 7.23793677204659, 6.148148148148149], "yaxis": "y4"}, {"name": "\u6b7b\u8005\u6570", "type": "bar", "x": ["2021/4/25", "2021/4/26", "2021/4/27", "2021/4/28", "2021/4/29", "2021/4/30", "2021/5/1", "2021/5/2", "2021/5/3", "2021/5/4", "2021/5/5", "2021/5/6", "2021/5/7", "2021/5/8", "2021/5/9", "2021/5/10", "2021/5/11", "2021/5/12", "2021/5/13", "2021/5/14", "2021/5/15", "2021/5/16", "2021/5/17", "2021/5/18", "2021/5/19", "2021/5/20", "2021/5/21", "2021/5/22", "2021/5/23", "2021/5/24", "2021/5/25", "2021/5/26", "2021/5/27", "2021/5/28", "2021/5/29", "2021/5/30", "2021/5/31", "2021/6/1", "2021/6/2", "2021/6/3", "2021/6/4", "2021/6/5", "2021/6/6", "2021/6/7", "2021/6/8", "2021/6/9", "2021/6/10", "2021/6/11", "2021/6/12", "2021/6/13", "2021/6/14", "2021/6/15", "2021/6/16", "2021/6/17", "2021/6/18", "2021/6/19", "2021/6/20", "2021/6/21", "2021/6/22", "2021/6/23", "2021/6/24", "2021/6/25", "2021/6/26", "2021/6/27", "2021/6/28", "2021/6/29", "2021/6/30", "2021/7/1", "2021/7/2", "2021/7/3", "2021/7/4", "2021/7/5", "2021/7/6", "2021/7/7", "2021/7/8", "2021/7/9", "2021/7/10", "2021/7/11", "2021/7/12", "2021/7/13", "2021/7/14", "2021/7/15", "2021/7/16", "2021/7/16", "2021/7/17", "2021/7/18"], "xaxis": "x5", "y": [0, 5, 5, 0, 0, 4, 0, 5, 0, 0, 0, 3, 4, 3, 7, 4, 5, 6, 5, 6, 1, 4, 7, 7, 11, 8, 10, 5, 10, 10, 5, 12, 7, 13, 7, 9, 12, 11, 9, 9, 3, 13, 10, 7, 13, 10, 4, 14, 12, 3, 10, 8, 3, 2, 3, 3, 1, 2, 4, 5, 4, 2, 2, 2, 3, 3, 3, 0, 0, 2, 2, 4, 1, 0, 0, 0, 0, 0, 0, 0, 0, 0, 0, 0, 0, 0], "yaxis": "y5"}, {"name": "\u967d\u6027\u7387\u79fb\u52d5\u5e73\u5747[%]", "type": "scatter", "x": ["2021/4/25", "2021/4/26", "2021/4/27", "2021/4/28", "2021/4/29", "2021/4/30", "2021/5/1", "2021/5/2", "2021/5/3", "2021/5/4", "2021/5/5", "2021/5/6", "2021/5/7", "2021/5/8", "2021/5/9", "2021/5/10", "2021/5/11", "2021/5/12", "2021/5/13", "2021/5/14", "2021/5/15", "2021/5/16", "2021/5/17", "2021/5/18", "2021/5/19", "2021/5/20", "2021/5/21", "2021/5/22", "2021/5/23", "2021/5/24", "2021/5/25", "2021/5/26", "2021/5/27", "2021/5/28", "2021/5/29", "2021/5/30", "2021/5/31", "2021/6/1", "2021/6/2", "2021/6/3", "2021/6/4", "2021/6/5", "2021/6/6", "2021/6/7", "2021/6/8", "2021/6/9", "2021/6/10", "2021/6/11", "2021/6/12", "2021/6/13", "2021/6/14", "2021/6/15", "2021/6/16", "2021/6/17", "2021/6/18", "2021/6/19", "2021/6/20", "2021/6/21", "2021/6/22", "2021/6/23", "2021/6/24", "2021/6/25", "2021/6/26", "2021/6/27", "2021/6/28", "2021/6/29", "2021/6/30", "2021/7/1", "2021/7/2", "2021/7/3", "2021/7/4", "2021/7/5", "2021/7/6", "2021/7/7", "2021/7/8", "2021/7/9", "2021/7/10", "2021/7/11", "2021/7/12", "2021/7/13", "2021/7/14", "2021/7/15", "2021/7/16", "2021/7/16", "2021/7/17", "2021/7/18"], "xaxis": "x6", "y": [0.0, 0.0, 0.0, 0.0, 0.0, 0.0, 7.503988673237832, 8.012654229024914, 7.624208551459091, 7.739263300950015, 8.20052638945088, 9.053458995812841, 9.335233576148571, 9.12183325798545, 9.391600961258641, 10.041943930516178, 11.249975394792585, 11.833235099189475, 12.830788065532012, 12.987117501220878, 12.8225929806167, 12.648389404900376, 13.140745452132233, 12.408946893398872, 12.035769399670638, 11.188599108957195, 11.032883320789193, 11.432615328865548, 11.469663580558498, 11.03112484656522, 10.580339232556168, 10.614449060383087, 10.32782169369443, 9.891738136640255, 9.219214012592248, 8.585346792433644, 8.236402798173822, 7.750302966829444, 7.296454882001749, 6.724036498001926, 6.392053019195346, 6.209374030394867, 6.397695077172687, 6.24383221013809, 5.864232789760624, 5.583843782032115, 5.311270761038544, 5.215048379980947, 5.12130590113274, 4.53839523723316, 4.311906559629389, 4.4278789555930285, 4.0890633103335015, 3.6921019592063242, 3.683819756532395, 3.6230342634733828, 3.646589139969436, 3.6560245237088473, 3.220578204959945, 3.141028494303555, 3.045703776448841, 2.863862686177662, 2.6109904391453327, 2.5180819012030433, 2.395600435718313, 2.237676561201624, 2.2098645863040765, 2.254738122676646, 2.247460580464374, 2.1996004198800874, 2.169592387879482, 2.0485201161423072, 1.991297946859014, 2.0694718055206773, 2.2728589015915936, 2.352679173826297, 2.687365395884533, 2.9140297355623836, 3.1807777283975844, 3.639006560168304, 3.825378033466001, 3.9397167311545354, 4.279786764393661, 4.381843708555869, 4.912927242390593, 5.15548243782537], "yaxis": "y6"}],                        {"annotations": [{"font": {"size": 16}, "showarrow": false, "text": "\u691c\u67fb\u6570", "x": 0.2375, "xanchor": "center", "xref": "paper", "y": 1.0, "yanchor": "bottom", "yref": "paper"}, {"font": {"size": 16}, "showarrow": false, "text": "\u967d\u6027\u8005", "x": 0.7625, "xanchor": "center", "xref": "paper", "y": 1.0, "yanchor": "bottom", "yref": "paper"}, {"font": {"size": 16}, "showarrow": false, "text": "\u7d4c\u8def\u4e0d\u660e\u7387[%]", "x": 0.2375, "xanchor": "center", "xref": "paper", "y": 0.6433333333333333, "yanchor": "bottom", "yref": "paper"}, {"font": {"size": 16}, "showarrow": false, "text": "\u967d\u6027\u7387[%]", "x": 0.7625, "xanchor": "center", "xref": "paper", "y": 0.6433333333333333, "yanchor": "bottom", "yref": "paper"}, {"font": {"size": 16}, "showarrow": false, "text": "\u6b7b\u8005\u6570", "x": 0.2375, "xanchor": "center", "xref": "paper", "y": 0.2866666666666667, "yanchor": "bottom", "yref": "paper"}, {"font": {"size": 16}, "showarrow": false, "text": "\u967d\u6027\u7387\u79fb\u52d5\u5e73\u5747[%]", "x": 0.7625, "xanchor": "center", "xref": "paper", "y": 0.2866666666666667, "yanchor": "bottom", "yref": "paper"}], "height": 700, "margin": {"b": 100, "l": 10, "r": 10, "t": 80}, "showlegend": false, "template": {"data": {"bar": [{"error_x": {"color": "#f2f5fa"}, "error_y": {"color": "#f2f5fa"}, "marker": {"line": {"color": "rgb(17,17,17)", "width": 0.5}}, "type": "bar"}], "barpolar": [{"marker": {"line": {"color": "rgb(17,17,17)", "width": 0.5}}, "type": "barpolar"}], "carpet": [{"aaxis": {"endlinecolor": "#A2B1C6", "gridcolor": "#506784", "linecolor": "#506784", "minorgridcolor": "#506784", "startlinecolor": "#A2B1C6"}, "baxis": {"endlinecolor": "#A2B1C6", "gridcolor": "#506784", "linecolor": "#506784", "minorgridcolor": "#506784", "startlinecolor": "#A2B1C6"}, "type": "carpet"}], "choropleth": [{"colorbar": {"outlinewidth": 0, "ticks": ""}, "type": "choropleth"}], "contour": [{"colorbar": {"outlinewidth": 0, "ticks": ""}, "colorscale": [[0.0, "#0d0887"], [0.1111111111111111, "#46039f"], [0.2222222222222222, "#7201a8"], [0.3333333333333333, "#9c179e"], [0.4444444444444444, "#bd3786"], [0.5555555555555556, "#d8576b"], [0.6666666666666666, "#ed7953"], [0.7777777777777778, "#fb9f3a"], [0.8888888888888888, "#fdca26"], [1.0, "#f0f921"]], "type": "contour"}], "contourcarpet": [{"colorbar": {"outlinewidth": 0, "ticks": ""}, "type": "contourcarpet"}], "heatmap": [{"colorbar": {"outlinewidth": 0, "ticks": ""}, "colorscale": [[0.0, "#0d0887"], [0.1111111111111111, "#46039f"], [0.2222222222222222, "#7201a8"], [0.3333333333333333, "#9c179e"], [0.4444444444444444, "#bd3786"], [0.5555555555555556, "#d8576b"], [0.6666666666666666, "#ed7953"], [0.7777777777777778, "#fb9f3a"], [0.8888888888888888, "#fdca26"], [1.0, "#f0f921"]], "type": "heatmap"}], "heatmapgl": [{"colorbar": {"outlinewidth": 0, "ticks": ""}, "colorscale": [[0.0, "#0d0887"], [0.1111111111111111, "#46039f"], [0.2222222222222222, "#7201a8"], [0.3333333333333333, "#9c179e"], [0.4444444444444444, "#bd3786"], [0.5555555555555556, "#d8576b"], [0.6666666666666666, "#ed7953"], [0.7777777777777778, "#fb9f3a"], [0.8888888888888888, "#fdca26"], [1.0, "#f0f921"]], "type": "heatmapgl"}], "histogram": [{"marker": {"colorbar": {"outlinewidth": 0, "ticks": ""}}, "type": "histogram"}], "histogram2d": [{"colorbar": {"outlinewidth": 0, "ticks": ""}, "colorscale": [[0.0, "#0d0887"], [0.1111111111111111, "#46039f"], [0.2222222222222222, "#7201a8"], [0.3333333333333333, "#9c179e"], [0.4444444444444444, "#bd3786"], [0.5555555555555556, "#d8576b"], [0.6666666666666666, "#ed7953"], [0.7777777777777778, "#fb9f3a"], [0.8888888888888888, "#fdca26"], [1.0, "#f0f921"]], "type": "histogram2d"}], "histogram2dcontour": [{"colorbar": {"outlinewidth": 0, "ticks": ""}, "colorscale": [[0.0, "#0d0887"], [0.1111111111111111, "#46039f"], [0.2222222222222222, "#7201a8"], [0.3333333333333333, "#9c179e"], [0.4444444444444444, "#bd3786"], [0.5555555555555556, "#d8576b"], [0.6666666666666666, "#ed7953"], [0.7777777777777778, "#fb9f3a"], [0.8888888888888888, "#fdca26"], [1.0, "#f0f921"]], "type": "histogram2dcontour"}], "mesh3d": [{"colorbar": {"outlinewidth": 0, "ticks": ""}, "type": "mesh3d"}], "parcoords": [{"line": {"colorbar": {"outlinewidth": 0, "ticks": ""}}, "type": "parcoords"}], "pie": [{"automargin": true, "type": "pie"}], "scatter": [{"marker": {"line": {"color": "#283442"}}, "type": "scatter"}], "scatter3d": [{"line": {"colorbar": {"outlinewidth": 0, "ticks": ""}}, "marker": {"colorbar": {"outlinewidth": 0, "ticks": ""}}, "type": "scatter3d"}], "scattercarpet": [{"marker": {"colorbar": {"outlinewidth": 0, "ticks": ""}}, "type": "scattercarpet"}], "scattergeo": [{"marker": {"colorbar": {"outlinewidth": 0, "ticks": ""}}, "type": "scattergeo"}], "scattergl": [{"marker": {"line": {"color": "#283442"}}, "type": "scattergl"}], "scattermapbox": [{"marker": {"colorbar": {"outlinewidth": 0, "ticks": ""}}, "type": "scattermapbox"}], "scatterpolar": [{"marker": {"colorbar": {"outlinewidth": 0, "ticks": ""}}, "type": "scatterpolar"}], "scatterpolargl": [{"marker": {"colorbar": {"outlinewidth": 0, "ticks": ""}}, "type": "scatterpolargl"}], "scatterternary": [{"marker": {"colorbar": {"outlinewidth": 0, "ticks": ""}}, "type": "scatterternary"}], "surface": [{"colorbar": {"outlinewidth": 0, "ticks": ""}, "colorscale": [[0.0, "#0d0887"], [0.1111111111111111, "#46039f"], [0.2222222222222222, "#7201a8"], [0.3333333333333333, "#9c179e"], [0.4444444444444444, "#bd3786"], [0.5555555555555556, "#d8576b"], [0.6666666666666666, "#ed7953"], [0.7777777777777778, "#fb9f3a"], [0.8888888888888888, "#fdca26"], [1.0, "#f0f921"]], "type": "surface"}], "table": [{"cells": {"fill": {"color": "#506784"}, "line": {"color": "rgb(17,17,17)"}}, "header": {"fill": {"color": "#2a3f5f"}, "line": {"color": "rgb(17,17,17)"}}, "type": "table"}]}, "layout": {"annotationdefaults": {"arrowcolor": "#f2f5fa", "arrowhead": 0, "arrowwidth": 1}, "autotypenumbers": "strict", "coloraxis": {"colorbar": {"outlinewidth": 0, "ticks": ""}}, "colorscale": {"diverging": [[0, "#8e0152"], [0.1, "#c51b7d"], [0.2, "#de77ae"], [0.3, "#f1b6da"], [0.4, "#fde0ef"], [0.5, "#f7f7f7"], [0.6, "#e6f5d0"], [0.7, "#b8e186"], [0.8, "#7fbc41"], [0.9, "#4d9221"], [1, "#276419"]], "sequential": [[0.0, "#0d0887"], [0.1111111111111111, "#46039f"], [0.2222222222222222, "#7201a8"], [0.3333333333333333, "#9c179e"], [0.4444444444444444, "#bd3786"], [0.5555555555555556, "#d8576b"], [0.6666666666666666, "#ed7953"], [0.7777777777777778, "#fb9f3a"], [0.8888888888888888, "#fdca26"], [1.0, "#f0f921"]], "sequentialminus": [[0.0, "#0d0887"], [0.1111111111111111, "#46039f"], [0.2222222222222222, "#7201a8"], [0.3333333333333333, "#9c179e"], [0.4444444444444444, "#bd3786"], [0.5555555555555556, "#d8576b"], [0.6666666666666666, "#ed7953"], [0.7777777777777778, "#fb9f3a"], [0.8888888888888888, "#fdca26"], [1.0, "#f0f921"]]}, "colorway": ["#636efa", "#EF553B", "#00cc96", "#ab63fa", "#FFA15A", "#19d3f3", "#FF6692", "#B6E880", "#FF97FF", "#FECB52"], "font": {"color": "#f2f5fa"}, "geo": {"bgcolor": "rgb(17,17,17)", "lakecolor": "rgb(17,17,17)", "landcolor": "rgb(17,17,17)", "showlakes": true, "showland": true, "subunitcolor": "#506784"}, "hoverlabel": {"align": "left"}, "hovermode": "closest", "mapbox": {"style": "dark"}, "paper_bgcolor": "rgb(17,17,17)", "plot_bgcolor": "rgb(17,17,17)", "polar": {"angularaxis": {"gridcolor": "#506784", "linecolor": "#506784", "ticks": ""}, "bgcolor": "rgb(17,17,17)", "radialaxis": {"gridcolor": "#506784", "linecolor": "#506784", "ticks": ""}}, "scene": {"xaxis": {"backgroundcolor": "rgb(17,17,17)", "gridcolor": "#506784", "gridwidth": 2, "linecolor": "#506784", "showbackground": true, "ticks": "", "zerolinecolor": "#C8D4E3"}, "yaxis": {"backgroundcolor": "rgb(17,17,17)", "gridcolor": "#506784", "gridwidth": 2, "linecolor": "#506784", "showbackground": true, "ticks": "", "zerolinecolor": "#C8D4E3"}, "zaxis": {"backgroundcolor": "rgb(17,17,17)", "gridcolor": "#506784", "gridwidth": 2, "linecolor": "#506784", "showbackground": true, "ticks": "", "zerolinecolor": "#C8D4E3"}}, "shapedefaults": {"line": {"color": "#f2f5fa"}}, "sliderdefaults": {"bgcolor": "#C8D4E3", "bordercolor": "rgb(17,17,17)", "borderwidth": 1, "tickwidth": 0}, "ternary": {"aaxis": {"gridcolor": "#506784", "linecolor": "#506784", "ticks": ""}, "baxis": {"gridcolor": "#506784", "linecolor": "#506784", "ticks": ""}, "bgcolor": "rgb(17,17,17)", "caxis": {"gridcolor": "#506784", "linecolor": "#506784", "ticks": ""}}, "title": {"x": 0.05}, "updatemenudefaults": {"bgcolor": "#506784", "borderwidth": 0}, "xaxis": {"automargin": true, "gridcolor": "#283442", "linecolor": "#506784", "ticks": "", "title": {"standoff": 15}, "zerolinecolor": "#283442", "zerolinewidth": 2}, "yaxis": {"automargin": true, "gridcolor": "#283442", "linecolor": "#506784", "ticks": "", "title": {"standoff": 15}, "zerolinecolor": "#283442", "zerolinewidth": 2}}}, "title": {"text": "\u672d\u5e4c\u611f\u67d3\u72b6\u6cc1 2021-04-25 \uff5e 2021-07-18 17:00"}, "width": 600, "xaxis": {"anchor": "y", "domain": [0.0, 0.475], "matches": "x5", "showticklabels": false}, "xaxis2": {"anchor": "y2", "domain": [0.525, 1.0], "matches": "x6", "showticklabels": false}, "xaxis3": {"anchor": "y3", "domain": [0.0, 0.475], "matches": "x5", "showticklabels": false}, "xaxis4": {"anchor": "y4", "domain": [0.525, 1.0], "matches": "x6", "showticklabels": false}, "xaxis5": {"anchor": "y5", "domain": [0.0, 0.475]}, "xaxis6": {"anchor": "y6", "domain": [0.525, 1.0]}, "yaxis": {"anchor": "x", "domain": [0.7133333333333334, 1.0], "range": [0, 5121.6]}, "yaxis2": {"anchor": "x2", "domain": [0.7133333333333334, 1.0], "range": [0, 548.9000000000001]}, "yaxis3": {"anchor": "x3", "domain": [0.3566666666666667, 0.6433333333333333], "range": [0, 94.06250000000001]}, "yaxis4": {"anchor": "x4", "domain": [0.3566666666666667, 0.6433333333333333], "range": [0, 22.899628252788105]}, "yaxis5": {"anchor": "x5", "domain": [0.0, 0.2866666666666667]}, "yaxis6": {"anchor": "x6", "domain": [0.0, 0.2866666666666667], "range": [0, 14.454819997345457]}},                        {"responsive": true}                    )                };                            </script>        </div>
